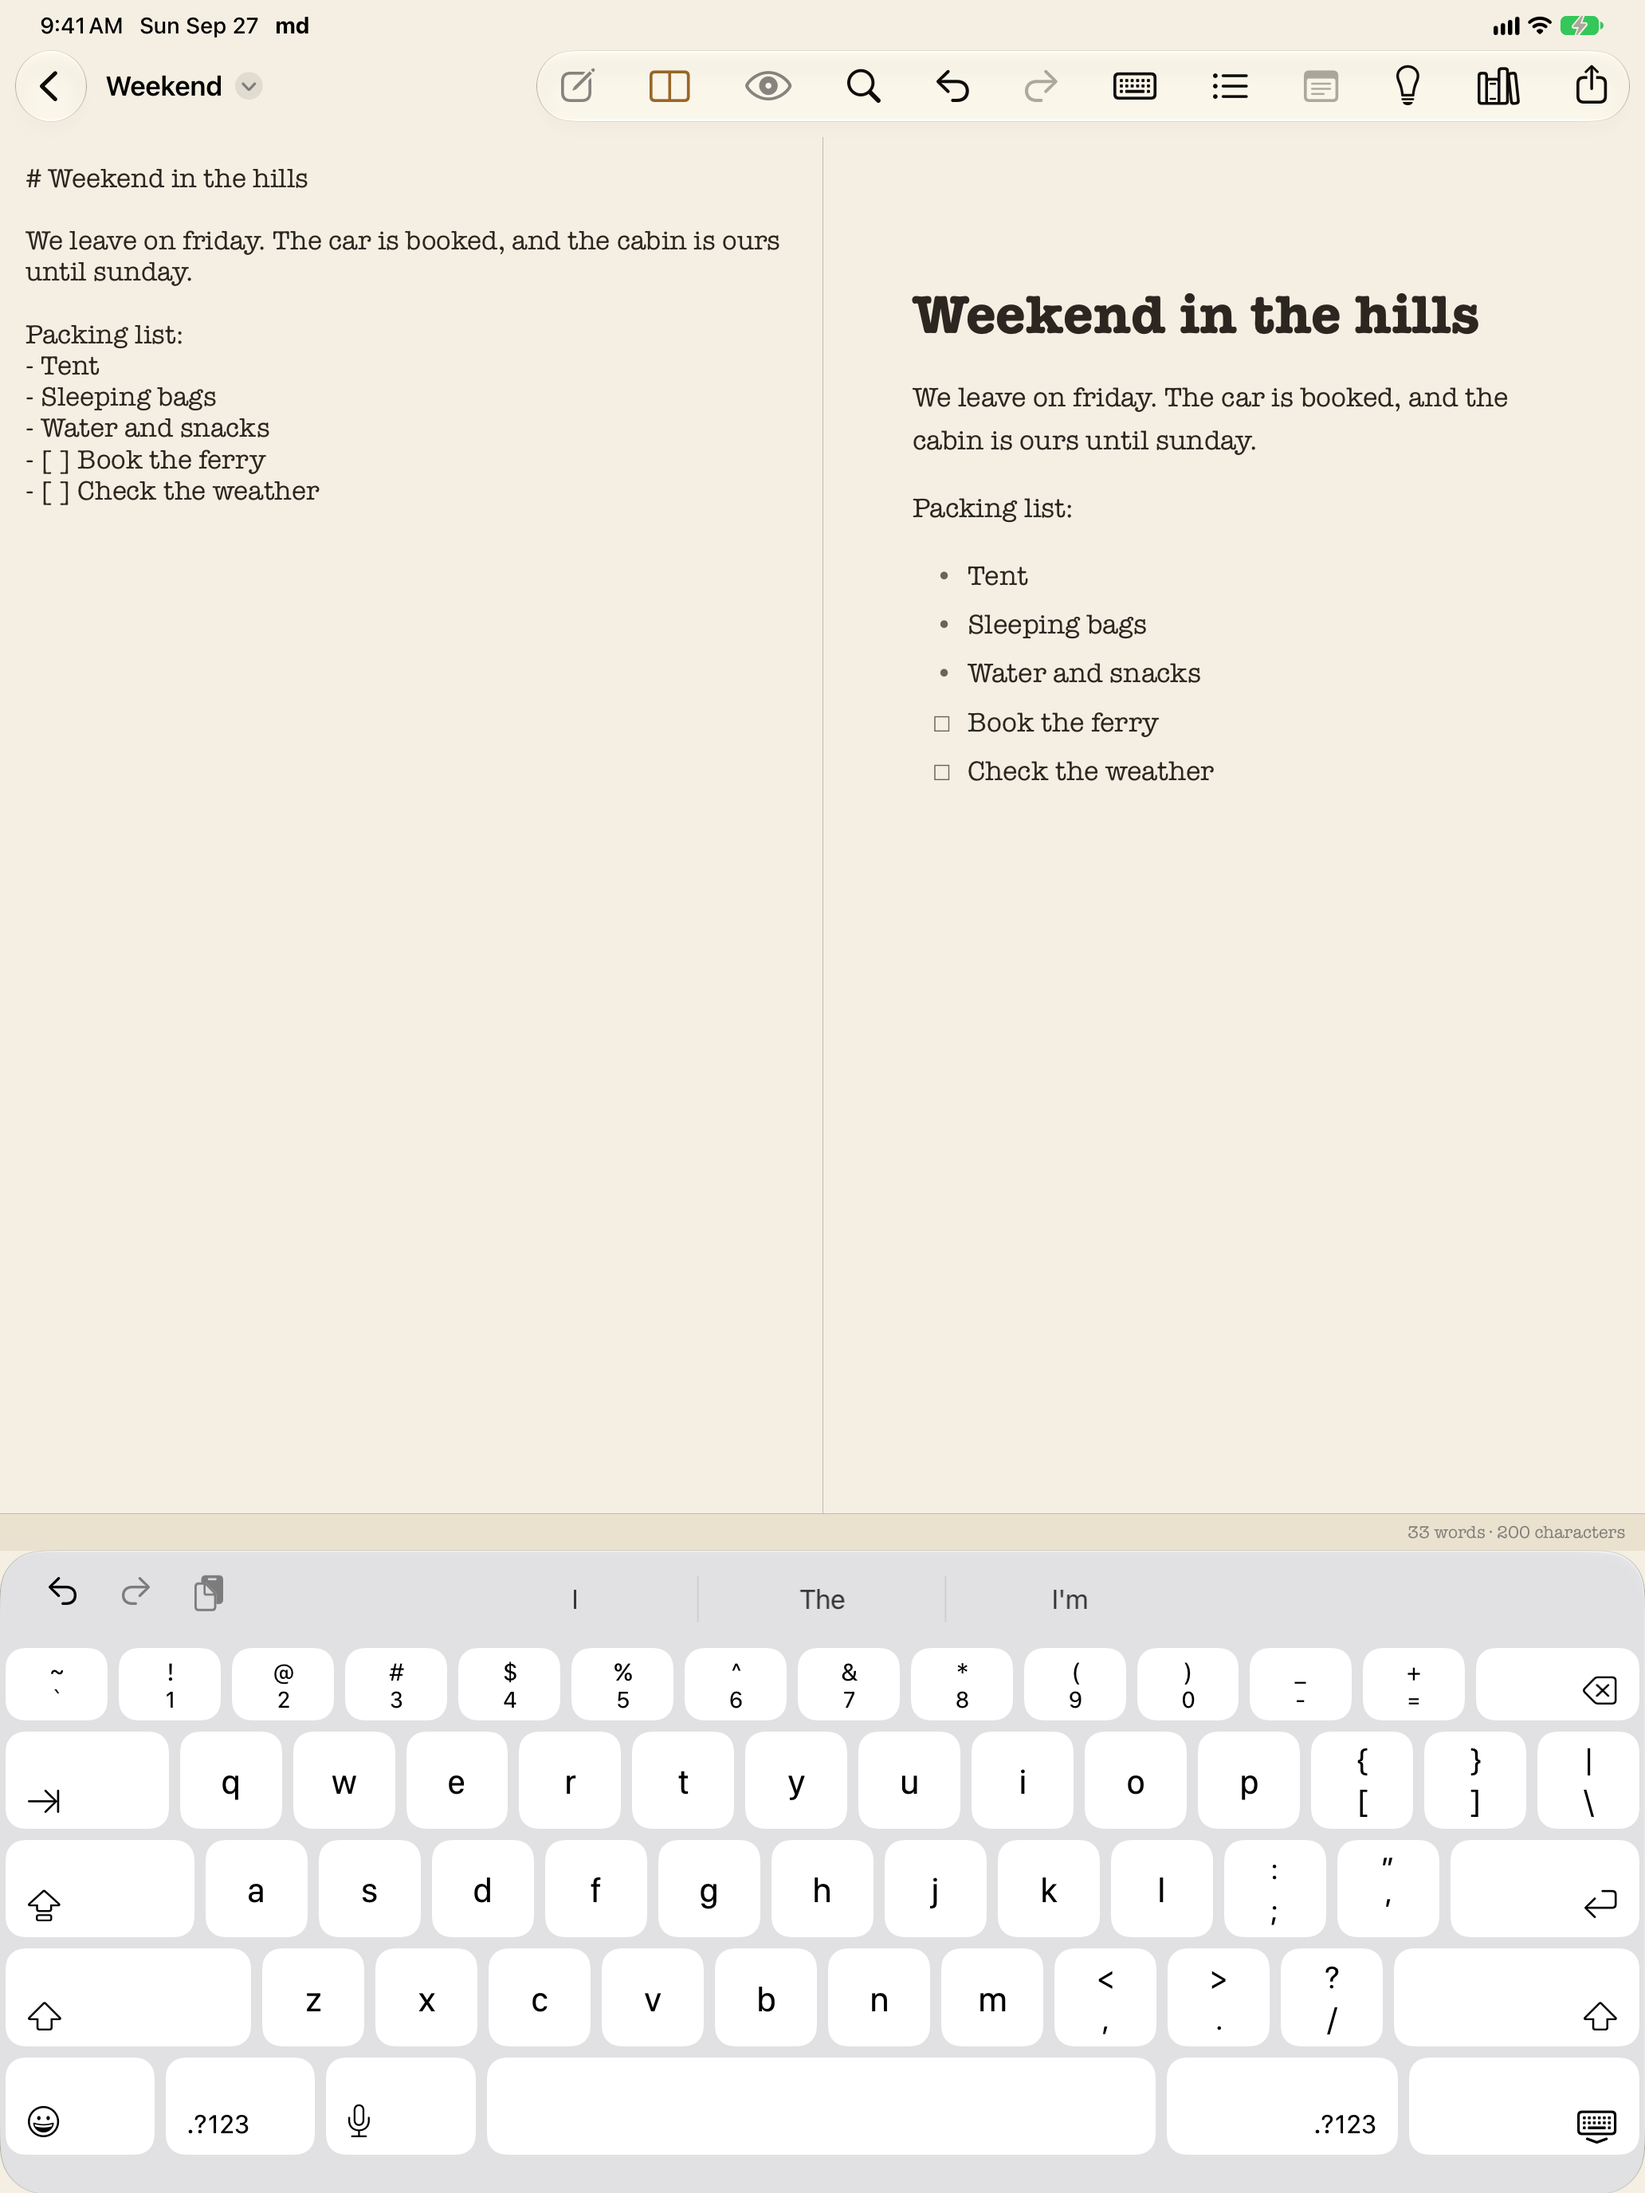
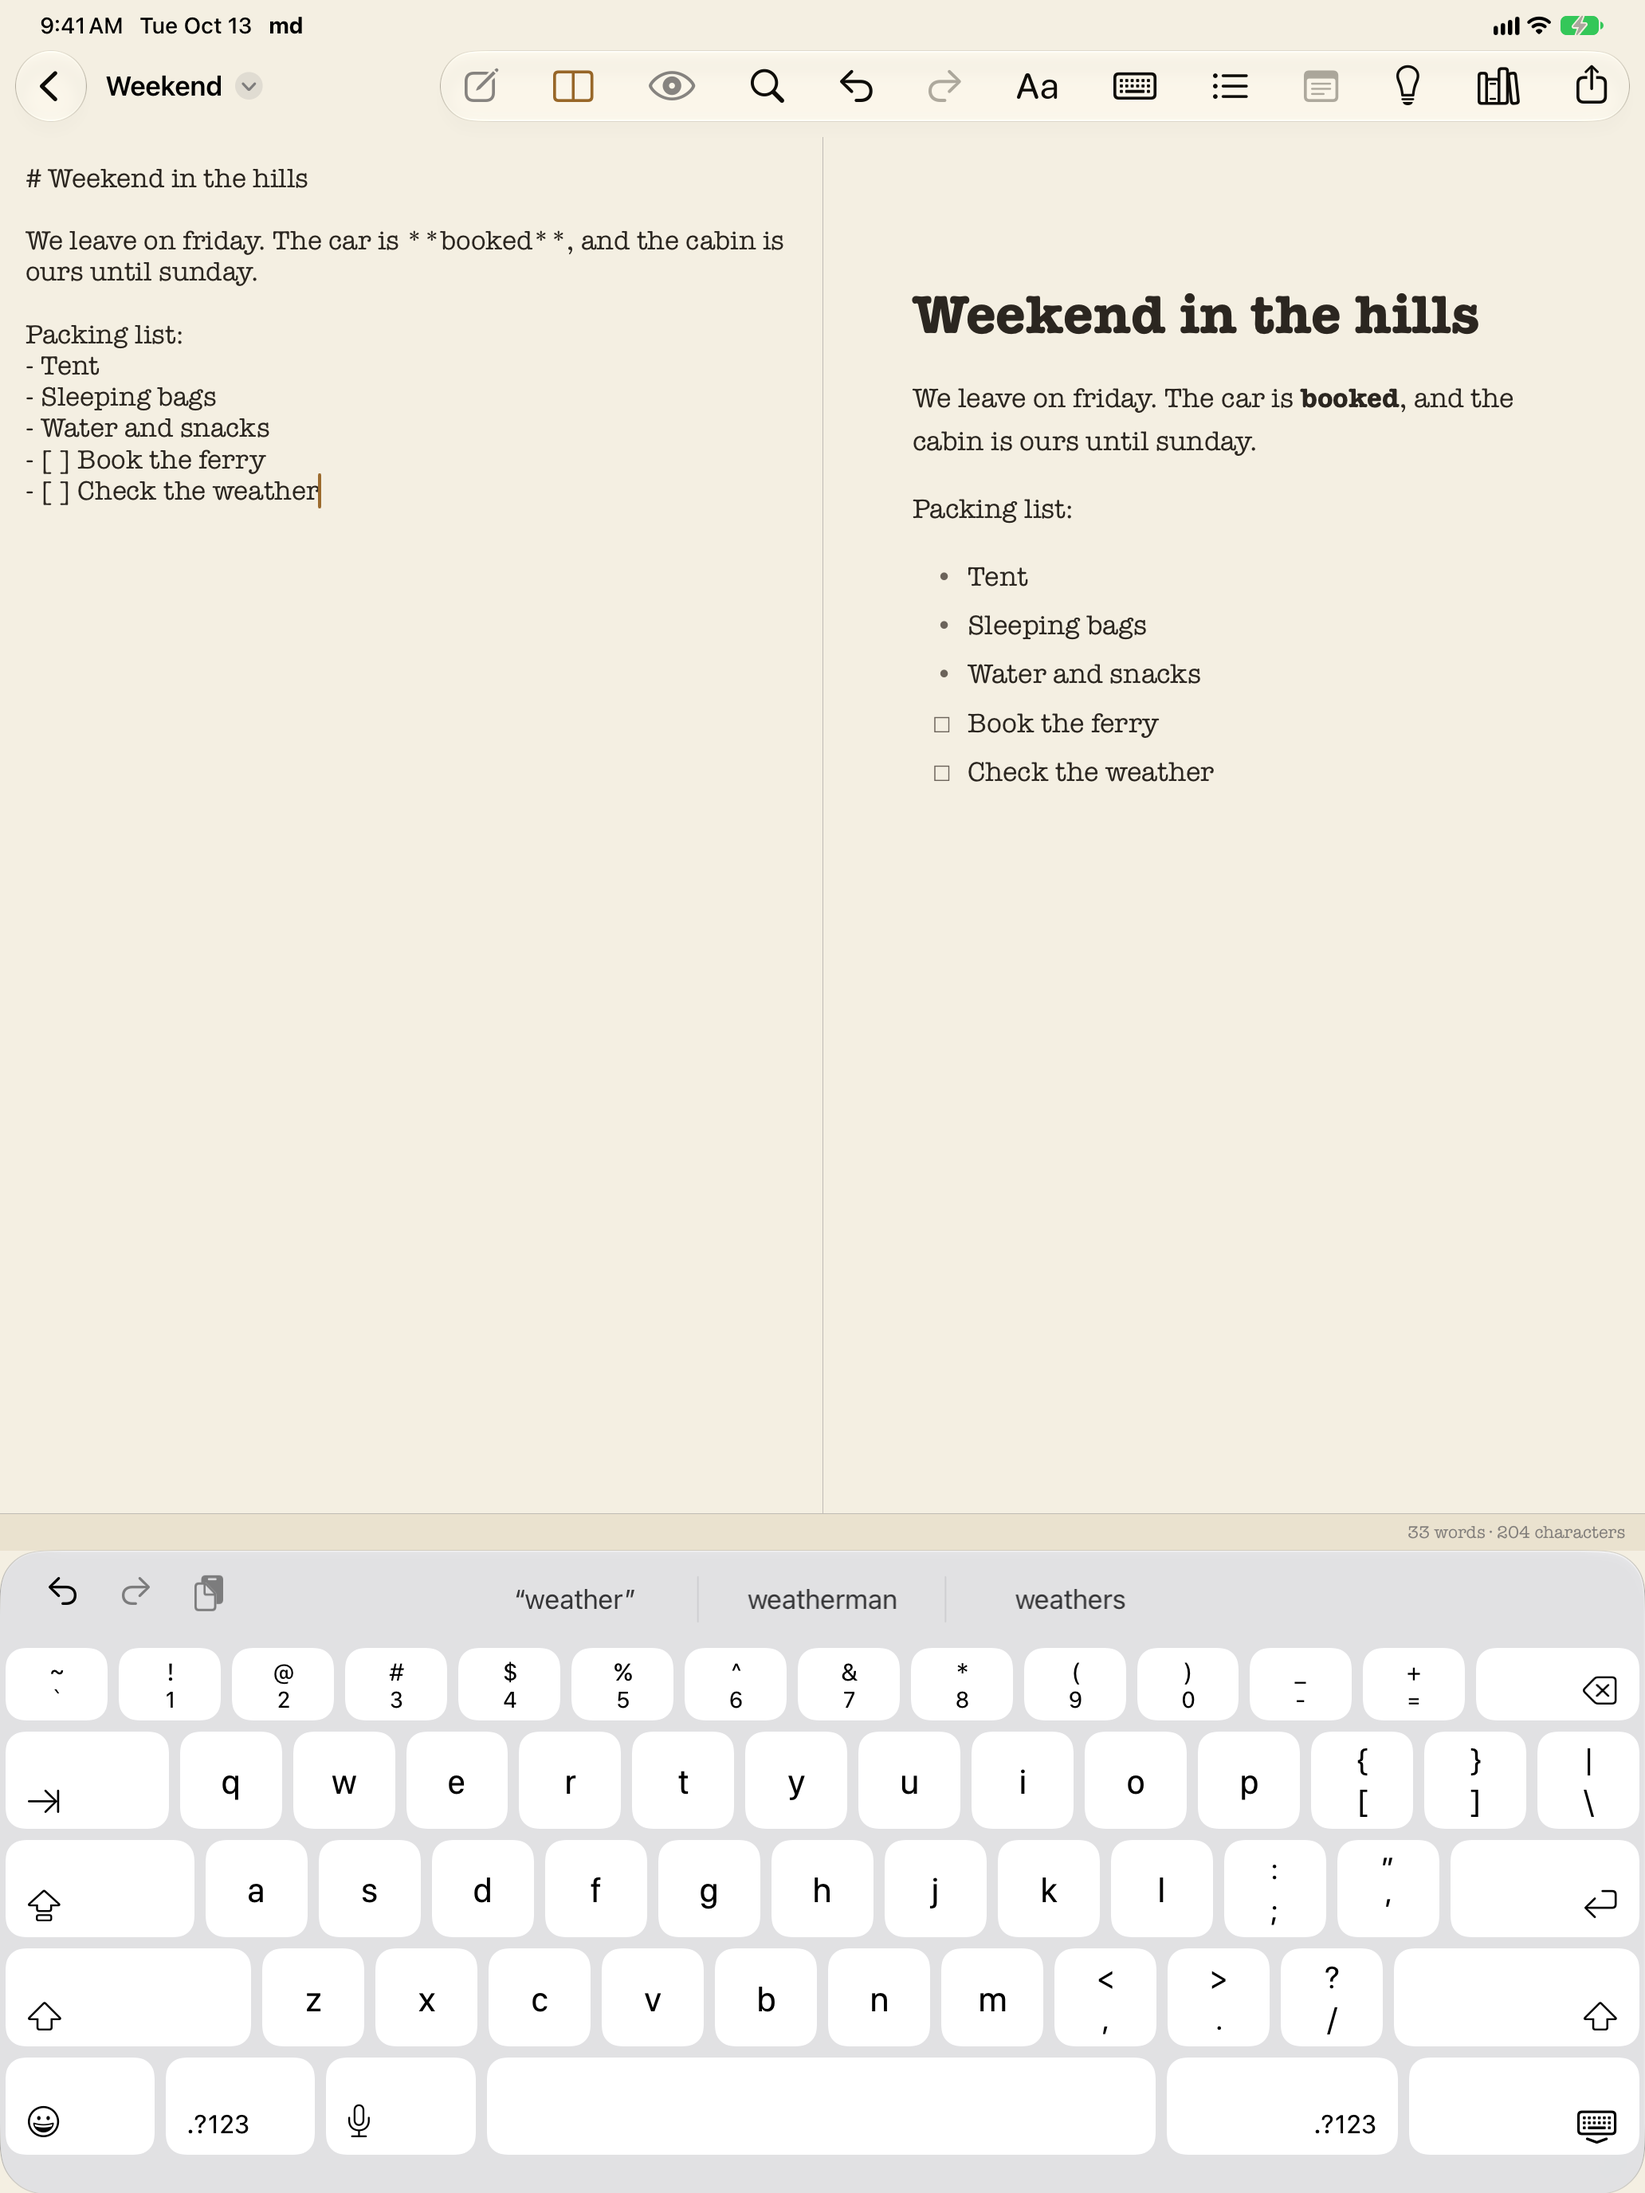
Release 1.6: changelog date and fix, privacy, App Store copy, screenshots
CHANGELOG: 1.6 is dated 2026-10-13 and lists the scalar-escaping fix (#20)
under Fixed. PRIVACY.md takes the same effective date and names the third
Typing switch (wrap selection) among the stored settings.

appstore/: What's New, Promotional Text, Description and Review Notes for
1.6 - the iPhone formatting bar and iPad Format menu, Quick Look for
TextBundles, EPUB details and cover, the two fixes. Every privacy line
names the second network fetch 1.6 adds, an https EPUB cover; Review Notes
say how to reach each 1.6 feature. All fields within their limits, no
angle brackets.

Screenshots: the iPad set is retaken whole (every shot is in Split, whose
toolbar gained the Format menu) and the iPhone typing shot shows the
formatting bar; the other iPhone shots are unchanged from 1.5.

Closes #22

diff --git a/appstore/README.md b/appstore/README.md
@@ -7,11 +7,11 @@ listings are written separately, because the apps differ.)
 
 | File | App Store Connect field | Limit | Current |
 | --- | --- | --- | --- |
-| `promotional-text.txt` | Promotional Text | 170 | 158 |
-| `description.txt` | Description | 4000 | 3987 |
+| `promotional-text.txt` | Promotional Text | 170 | 162 |
+| `description.txt` | Description | 4000 | 3956 |
 | `keywords.txt` | Keywords | 100 | 99 |
-| `whats-new.txt` | What's New in This Version | 4000 | 3440 |
-| `review-notes.txt` | App Review Information ▸ Notes | 4000 | 3995 |
+| `whats-new.txt` | What's New in This Version | 4000 | 3054 |
+| `review-notes.txt` | App Review Information ▸ Notes | 4000 | 3943 |
 
 Promotional Text can be changed at any time without submitting a new build;
 the Description, Keywords and What's New ship with a version.
@@ -37,8 +37,9 @@ listing must describe *this* version, not the roadmap.
   without implying endorsement.
 - Privacy claims match the code and the linked privacy policy: nothing is
   collected, and the only network use is fetching an image a document
-  itself points at. The Privacy Nutrition Label answer that matches this
-  build is **Data Not Collected**, with no tracking.
+  itself points at, or the https cover its front matter names for an
+  EPUB. The Privacy Nutrition Label answer that matches this build is
+  **Data Not Collected**, with no tracking.
 
 ## Wording that must not drift back
 
@@ -63,10 +64,10 @@ rejection).
 
 `review-notes.txt` answers the seven things App Review asks for on a
 Guideline 2.1 "information needed" hold: purpose, how to reach every
-feature without an account, what the one network call is for, and why the
+feature without an account, what the two network fetches are for, and why the
 bundled JavaScript engines are not downloaded code (2.5.2). Section 2 is
 also the script for a demo recording, if one is ever requested: it
-exercises every new 1.5 feature in about three minutes.
+exercises every new 1.6 feature in about three minutes.
 
 ## Screenshots
 
@@ -87,3 +88,12 @@ keep in mind next time: iPadOS 26's windowing refuses programmatic rotation,
 so the iPad set is portrait; and a Contents jump in Split focuses the editor,
 so the script's `blur` step puts the keyboard away before a shot that should
 not show one.
+
+For 1.6 the iPad set was retaken whole, since every iPad shot is in Split
+and its toolbar gained the Format menu, and so was the iPhone typing shot,
+which now shows the formatting bar above the keyboard and a word made bold
+(the script `select`s it, then `key cmd+b`). The other iPhone shots show
+nothing 1.6 changed and are still the 1.5 pictures. The scripts are
+`shots.txt` (1.5) and `shots16.txt` (1.6) in the Documents of each md-shots
+simulator; delete the example copies there before a run, or md opens
+"Formatting 2" beside the old one.

diff --git a/PRIVACY.md b/PRIVACY.md
@@ -1,6 +1,6 @@
 # Privacy Policy
 
-**Effective date:** 28 June 2026
+**Effective date:** 13 October 2026
 **Applies to:** md — the iOS / iPadOS Markdown editor published by
 nettrash. This policy is versioned alongside the
 app's source code; the most recent commit on `main` is authoritative.
@@ -33,9 +33,10 @@ Apple account under Apple's privacy terms, not ours.
 
 The app stores a few small settings on-device, through the standard system
 preferences store: your last-used Edit / Split / Preview layout (and the
-layout each file was last shown in), your PDF page size, the two Typing
-toggles — whether Return continues lists and tables, and whether sentences
-are capitalized — and, if you use writer mode, a security-scoped bookmark
+layout each file was last shown in), your PDF page size, the three Typing
+switches — whether Return continues lists and tables, whether sentences are
+capitalized, and whether typing `*`, `_`, a backtick or `$` wraps a
+selection — and, if you use writer mode, a security-scoped bookmark
 to the book folder you chose, so the book reopens without asking you to
 find it again. A security-scoped bookmark is simply how a sandboxed app is
 permitted to reopen a folder you picked; it points at a place on your own

diff --git a/CHANGELOG.md b/CHANGELOG.md
@@ -7,7 +7,7 @@ and this project adheres to [Semantic Versioning](https://semver.org/spec/v2.0.0
 The build number (`CFBundleVersion`) is auto-incremented on every build by
 a scheme post-action (`agvtool bump`) and is not tracked here.
 
-## [1.6] — 2026-10-10
+## [1.6] — 2026-10-13
 
 ### Added
 
@@ -67,6 +67,16 @@ a scheme post-action (`agvtool bump`) and is not tracked here.
   exports keep the SVG, and an EPUB snapshot is still capped at the page's
   width. A pin test fails if a future engine update brings the gate back.
   (#11)
+- **A quote, ampersand or angle bracket followed by a combining mark was
+  not escaped.** Swift compares strings by character, and a `"`, `&`, `<`
+  or `>` followed by a combining mark (an accent written as its own code
+  point, U+0301 say) is a single character that is none of them, so
+  the HTML escape passed it through untouched — in the preview, the
+  printout, the PDF, the HTML and EPUB exports and Quick Look. A `"` left
+  that way could end an HTML attribute early, and the text after it was
+  read as markup. Escaping now goes one Unicode scalar at a time
+  (`ScalarText.escapingMarkup`), in the renderer and in the EPUB package
+  alike. 1.5 had the same flaw. (#20)
 
 ## [1.5] — 2026-09-23
 
